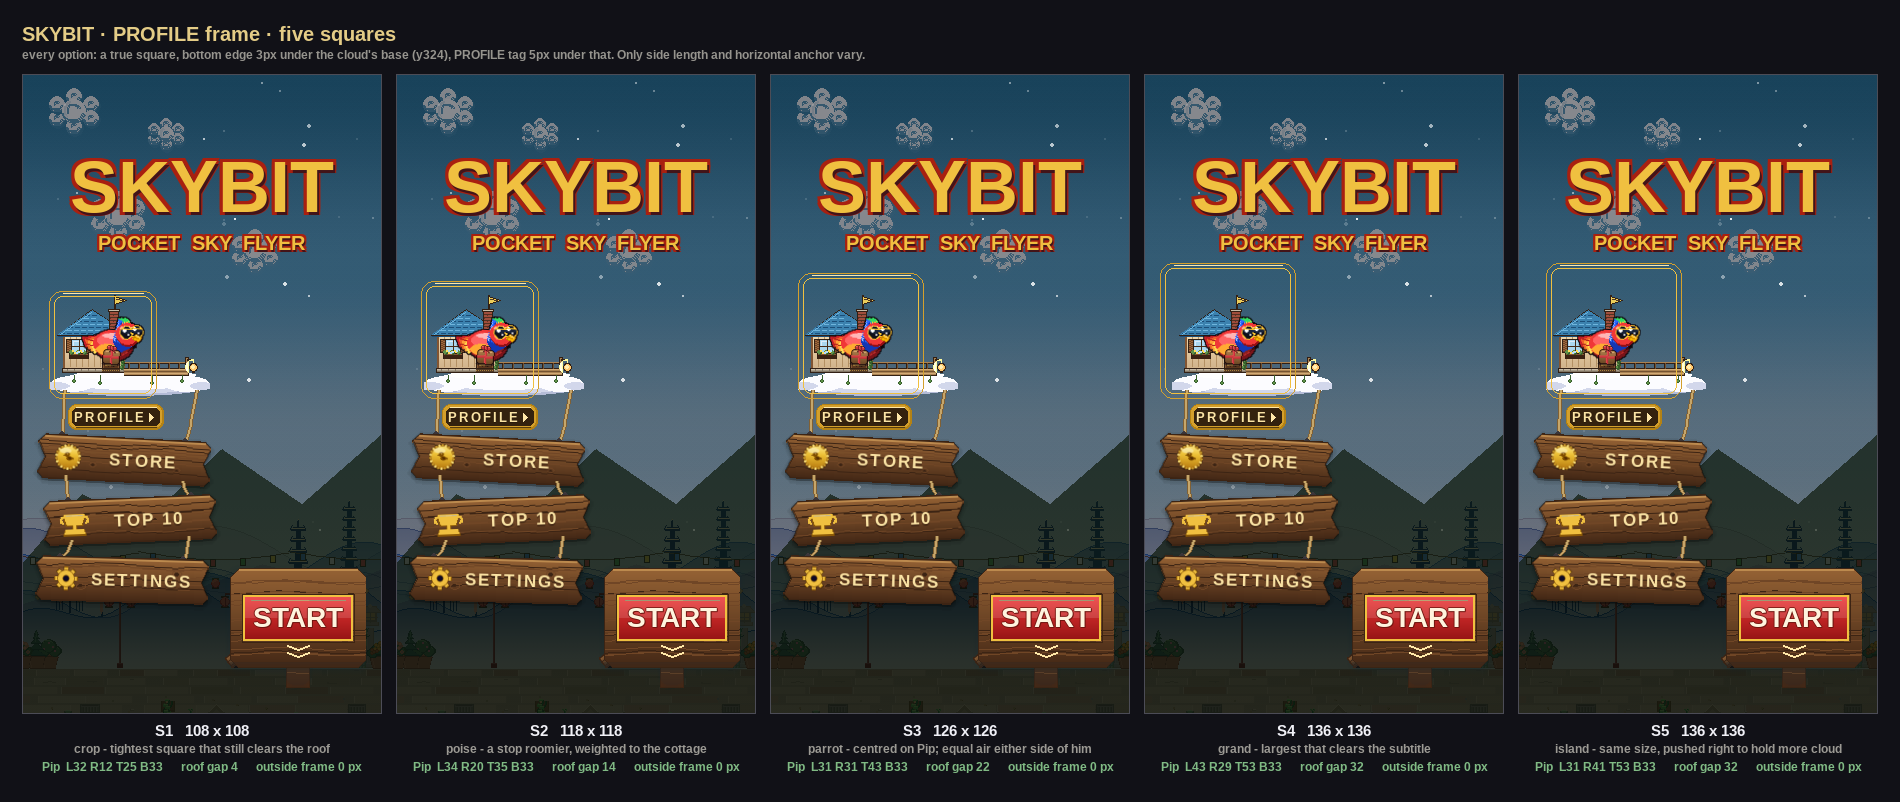
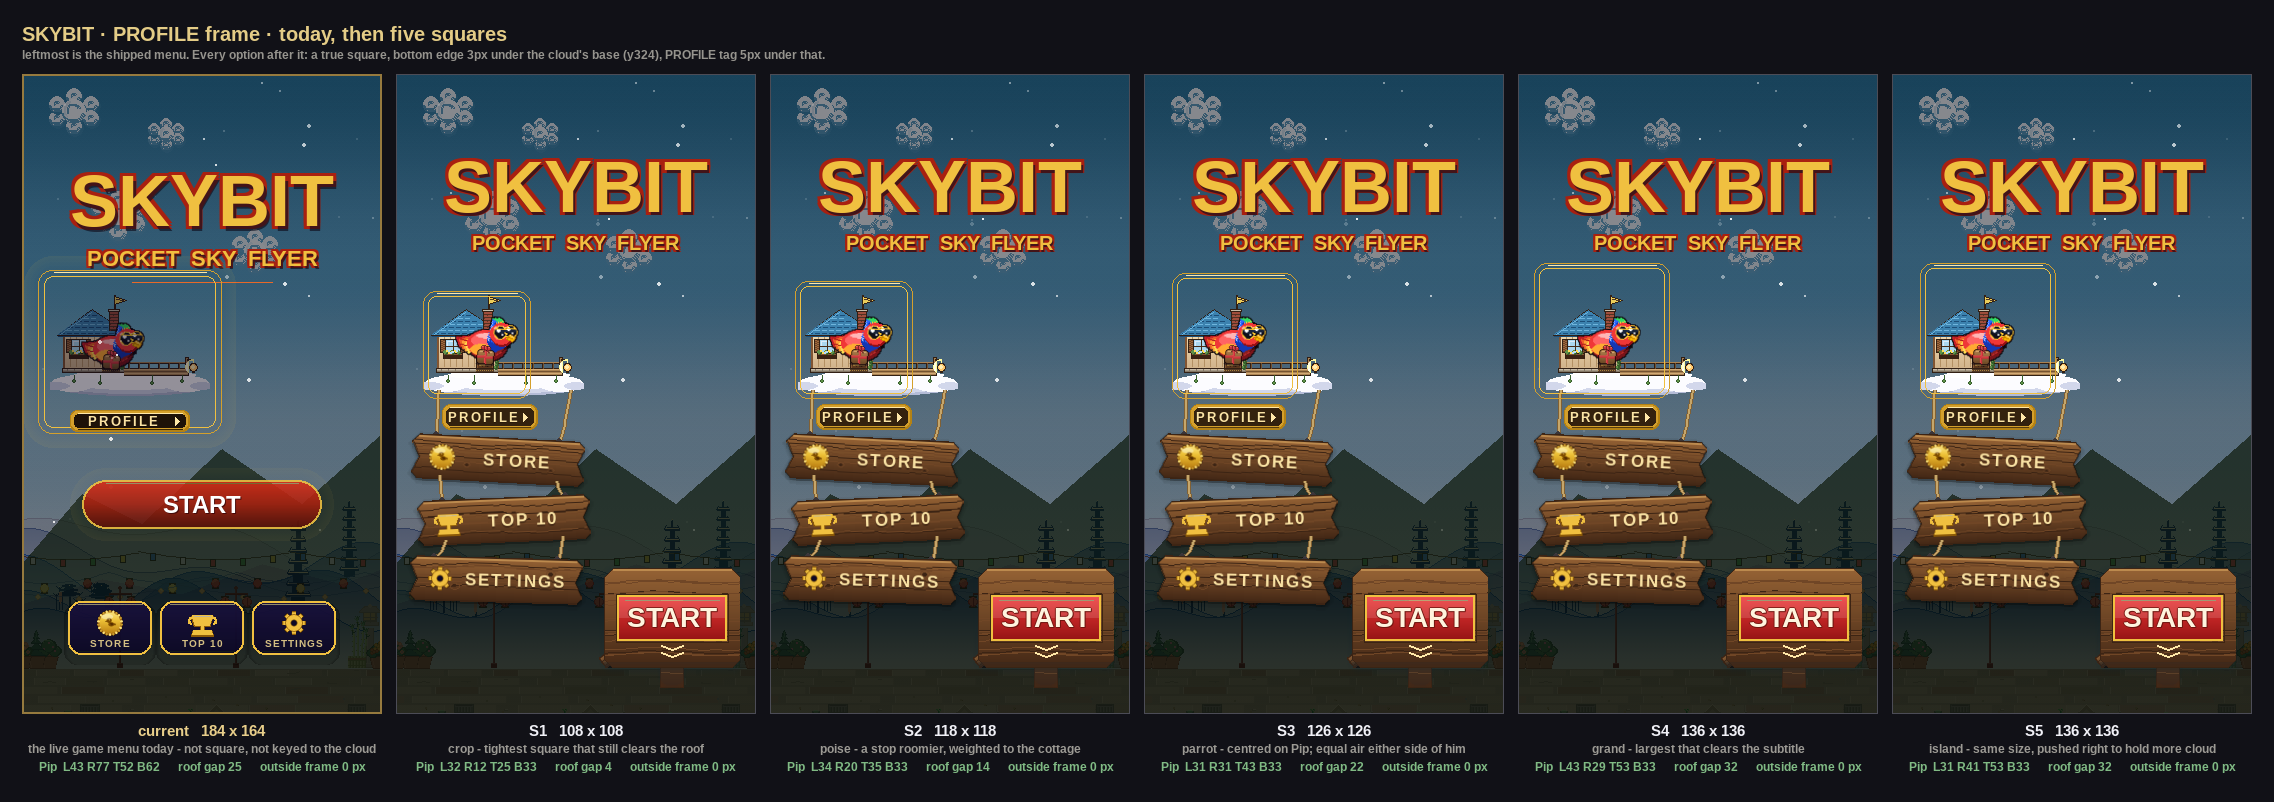
harbour-post: put today's live menu at the head of the square sheet
The five squares had nothing to be read against. The leftmost panel is now the
shipped menu rendered through the shipping path — scenes.py's STATE_MENU blit
order into hud.draw_menu, which owns the veil, the profile card, the START pill
and the plank chain — rather than re-mocked, so the comparison is honest.

Measured off hud's own published menu_profile_rect, today's frame is 184x164 at
x16-199 / y196-359: not square, and closing 38px BELOW the cloud's base instead
of just under it. Pip sits 43px from its left rule and 77px from its right.
That is the gap the five options close.

Claude-Session: https://claude.ai/code/session_01HZruNdjCPrRs3WrJUvXQLo

diff --git a/tools/menu-design/profile_frame_square.py b/tools/menu-design/profile_frame_square.py
@@ -94,6 +94,62 @@ def draw_frame(surf, fr, tag):
     return fr.union(tag)
 
 
+def build_shipped(phase):
+    """The live menu, exactly as scenes.py draws STATE_MENU — hud.draw_menu
+    owns the veil, the profile card, the START pill and the plank chain. This
+    is the thing the five squares are proposals against, so it is rendered
+    through the shipping code path rather than re-mocked."""
+    from game.scenes import App, STATE_MENU
+    from game.world import World
+    from game import biome as _biome
+    from game import foreground
+    from game.config import W as GW, H as GH
+
+    app = App()
+    app._cooldown_t = 0.0
+    app._fetch_pending = False
+    app.state = STATE_MENU
+    app.world = World()
+    for _ in range(40):
+        app.world.world_idle_tick(1 / 60)
+    app.world.biome_time = phase * _biome.CYCLE_SECONDS
+    app.world.weather.wetness = 0.0
+    app.world.bird.frame_t = 0.0
+
+    s = app.screen
+    app._draw_background(s)
+    foreground.draw_near_lane(s, app.world.bg_scroll, app.world.biome_palette,
+                              app.world.biome_phase, app.world.biome_time)
+    house = B._intro.get_sprite("skyhouse_post")
+    s.blit(house, (int(GW * 0.30) - house.get_width() // 2,
+                   int(GH * 0.42) - house.get_height() // 2))
+    app.world.bird.draw(s, 0, 0)
+    app.hud.draw_menu(s, 1 / 60, app.best)
+
+    # Same draw call on its own layer: the margin table has to be measured
+    # against the silhouette this panel actually shows.
+    pip = pygame.Surface((GW, GH), pygame.SRCALPHA)
+    app.world.bird.draw(pip, 0, 0)
+    m = pygame.mask.from_surface(pip, threshold=8)
+    px = [(x, y) for x in range(GW) for y in range(200, 340) if m.get_at((x, y))]
+    return s, app.hud.menu_profile_rect, px
+
+
+def shipped_stats(fr, px):
+    xs = [x for x, y in px]
+    ys = [y for x, y in px]
+    return dict(
+        side=(fr.width, fr.height),
+        square=fr.width == fr.height,
+        rect=(fr.left, fr.top, fr.right - 1, fr.bottom - 1),
+        clip_px=len([p for p in px if not fr.collidepoint(p)]),
+        pip=(min(xs) - fr.left, fr.right - 1 - max(xs),
+             min(ys) - fr.top, fr.bottom - 1 - max(ys)),
+        cottage=(0, 0, B.house_cottage_rect().top - fr.top),
+        below_cloud=fr.bottom - 1 - (B.cloud_rect().bottom - 1),
+    )
+
+
 def build(phase, slug):
     import random
     from game.scenes import App, STATE_MENU
@@ -229,37 +285,51 @@ if __name__ == "__main__":
         fs = pygame.font.Font(F, 12)
         CW, CH = W, H
         PAD, GAP, LAB, HEAD = 22, 14, 66, 52
-        n = len(order)
+
+        live_surf, live_fr, live_pip = build_shipped(0.20)
+        stats["current"] = shipped_stats(live_fr, live_pip)
+        panels = [("current", live_surf,
+                   "the live game menu today - not square, not keyed to the cloud")]
+        panels += [(s, None, PRESETS[s][1]) for s in order]
+
+        n = len(panels)
         sheet = pygame.Surface((PAD * 2 + n * CW + (n - 1) * GAP,
                                 PAD * 2 + HEAD + CH + LAB))
         sheet.fill((17, 17, 23))
-        sheet.blit(fh.render("SKYBIT · PROFILE frame · five squares",
+        sheet.blit(fh.render("SKYBIT · PROFILE frame · today, then five squares",
                              True, (228, 204, 134)), (PAD, PAD))
         sheet.blit(fs.render(
-            "every option: a true square, bottom edge 3px under the cloud's base (y324), "
-            "PROFILE tag 5px under that. Only side length and horizontal anchor vary.",
+            "leftmost is the shipped menu. Every option after it: a true square, bottom edge 3px "
+            "under the cloud's base (y324), PROFILE tag 5px under that.",
             True, (150, 148, 142)), (PAD, PAD + 26))
+
         y = PAD + HEAD
-        for i, slug in enumerate(order):
-            surf = build(0.20, slug)
+        for i, (slug, surf, thesis) in enumerate(panels):
+            if surf is None:
+                surf = build(0.20, slug)
             x = PAD + i * (CW + GAP)
             sheet.blit(surf, (x, y))
-            pygame.draw.rect(sheet, (76, 76, 86), (x, y, CW, CH), 1)
+            live = slug == "current"
+            pygame.draw.rect(sheet, (150, 122, 62) if live else (76, 76, 86),
+                             (x, y, CW, CH), 2 if live else 1)
             st = stats[slug]
-            t = fl.render("%s   %d x %d" % (slug, *st["side"]), True, (240, 240, 246))
+            t = fl.render("%s   %d x %d" % (slug, *st["side"]), True,
+                          (232, 206, 138) if live else (240, 240, 246))
             sheet.blit(t, t.get_rect(midtop=(x + CW // 2, y + CH + 8)))
-            c = fs.render(PRESETS[slug][1], True, (156, 154, 148))
+            c = fs.render(thesis, True, (156, 154, 148))
             sheet.blit(c, c.get_rect(midtop=(x + CW // 2, y + CH + 28)))
             bad = st["clip_px"] > 0
             m = "Pip  L%d R%d T%d B%d      roof gap %d      outside frame %d px" % (
                 *st["pip"], st["cottage"][2], st["clip_px"])
             c2 = fs.render(m, True, (214, 106, 96) if bad else (128, 186, 132))
             sheet.blit(c2, c2.get_rect(midtop=(x + CW // 2, y + CH + 46)))
+
         out = ("/home/user/skybit/docs/main-menu/harbour-post/"
                "profile-frame/square_showcase.png")
         os.makedirs(os.path.dirname(out), exist_ok=True)
         pygame.image.save(sheet, out)
         print("saved", out, sheet.get_size())
+        order = ["current"] + order
     else:
         which = os.environ.get("OPTION", "S3")
         out = os.environ.get("OUT", "/tmp/_pfsq_%s.png" % which)
@@ -268,4 +338,4 @@ if __name__ == "__main__":
 
     print("subtitle mass ends at y%d" % sub)
     for s in order:
-        print("%-4s %s" % (s, stats[s]))
+        print("%-8s %s" % (s, stats[s]))
